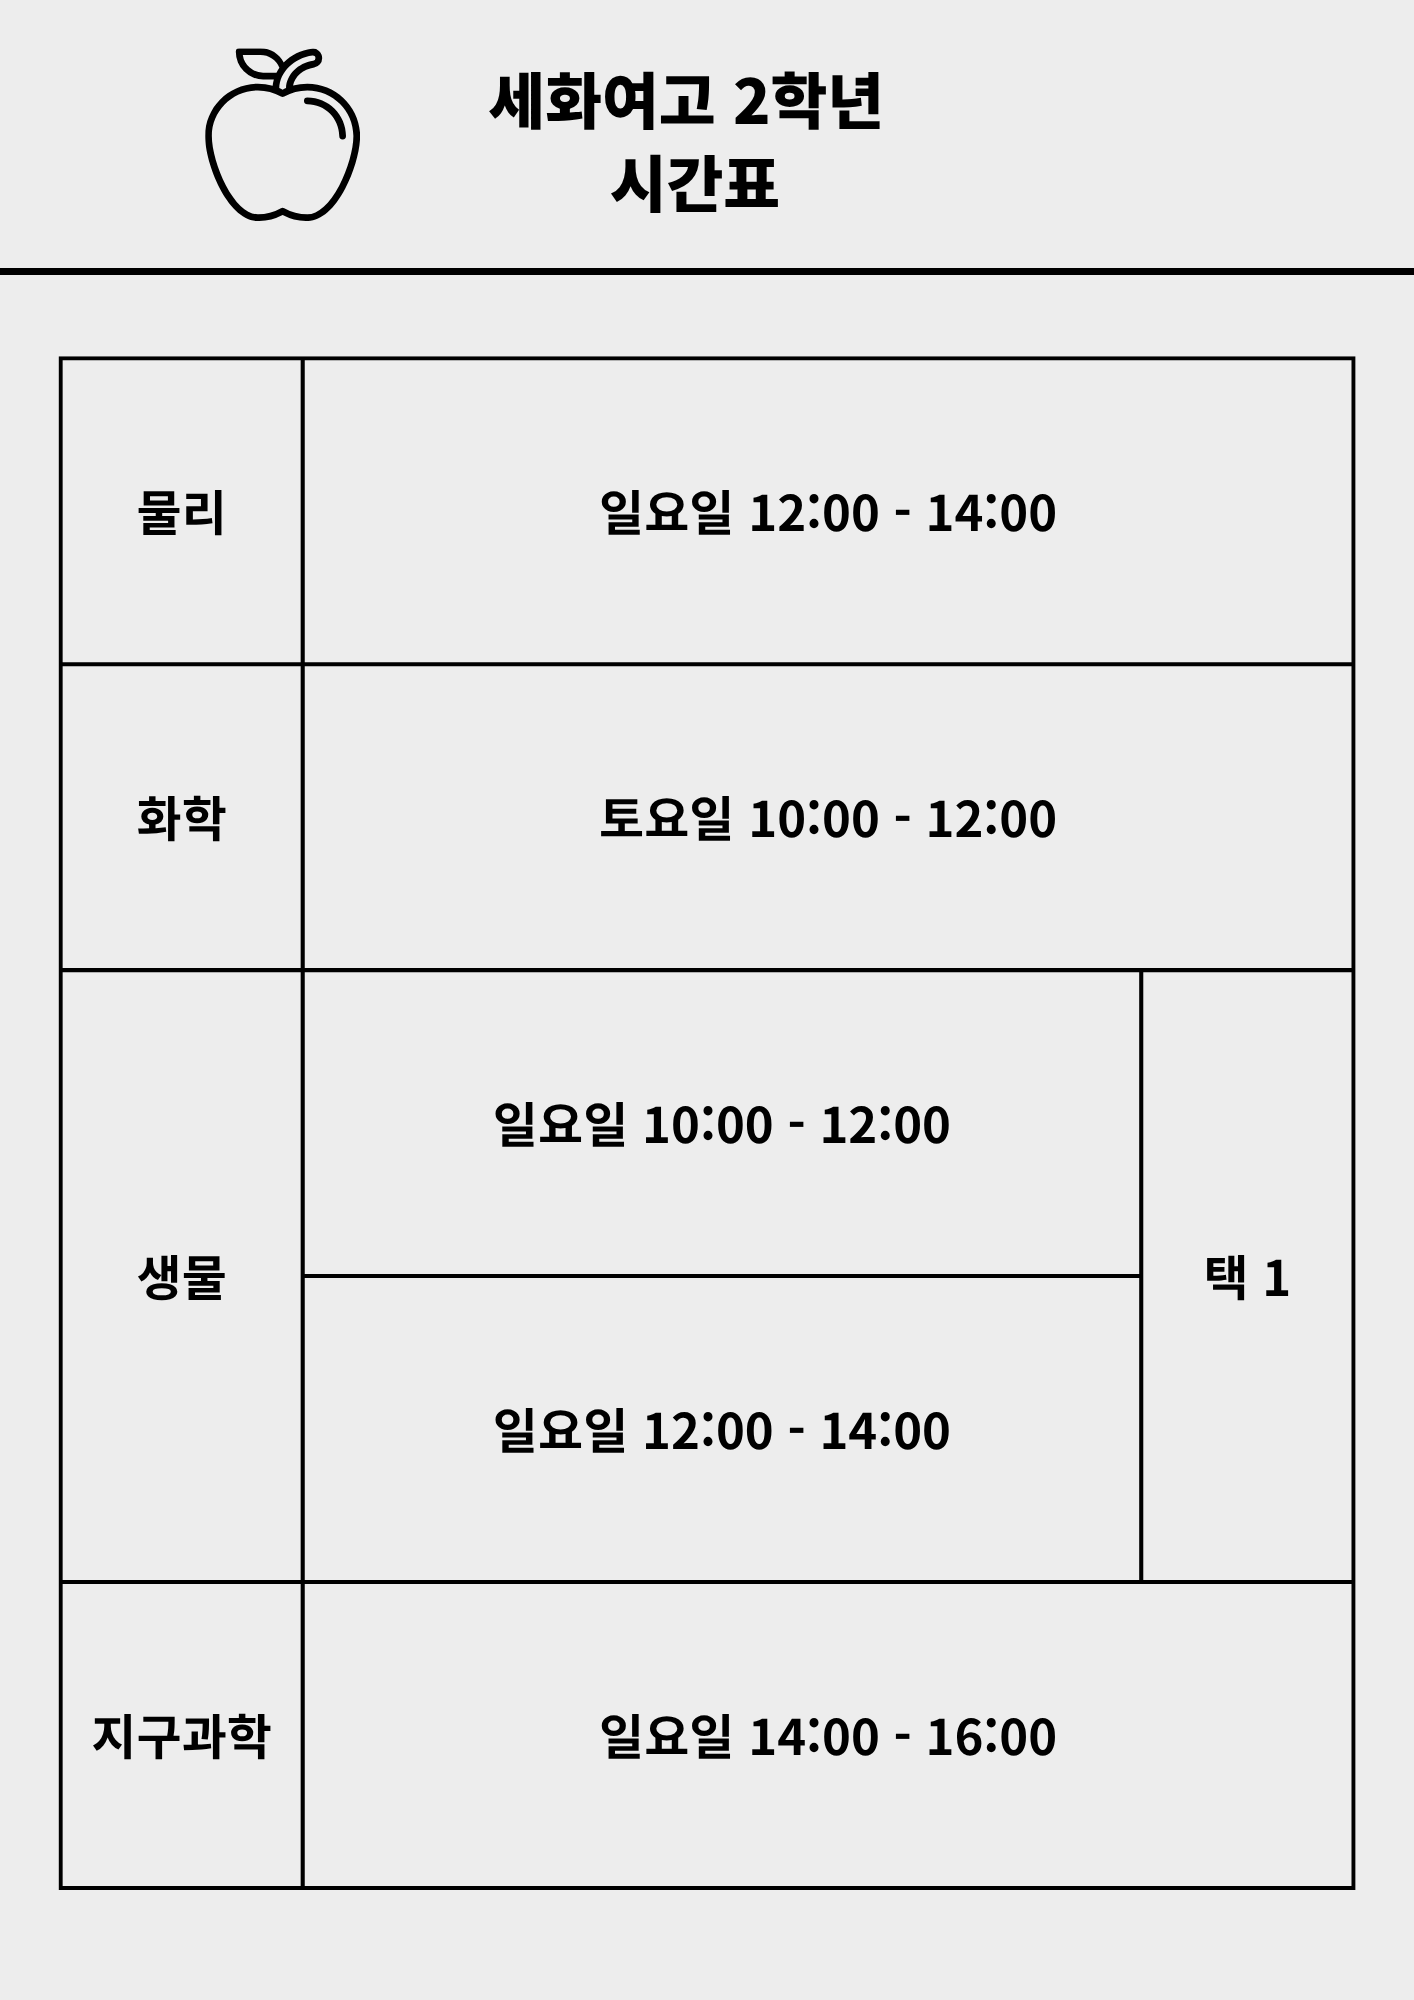
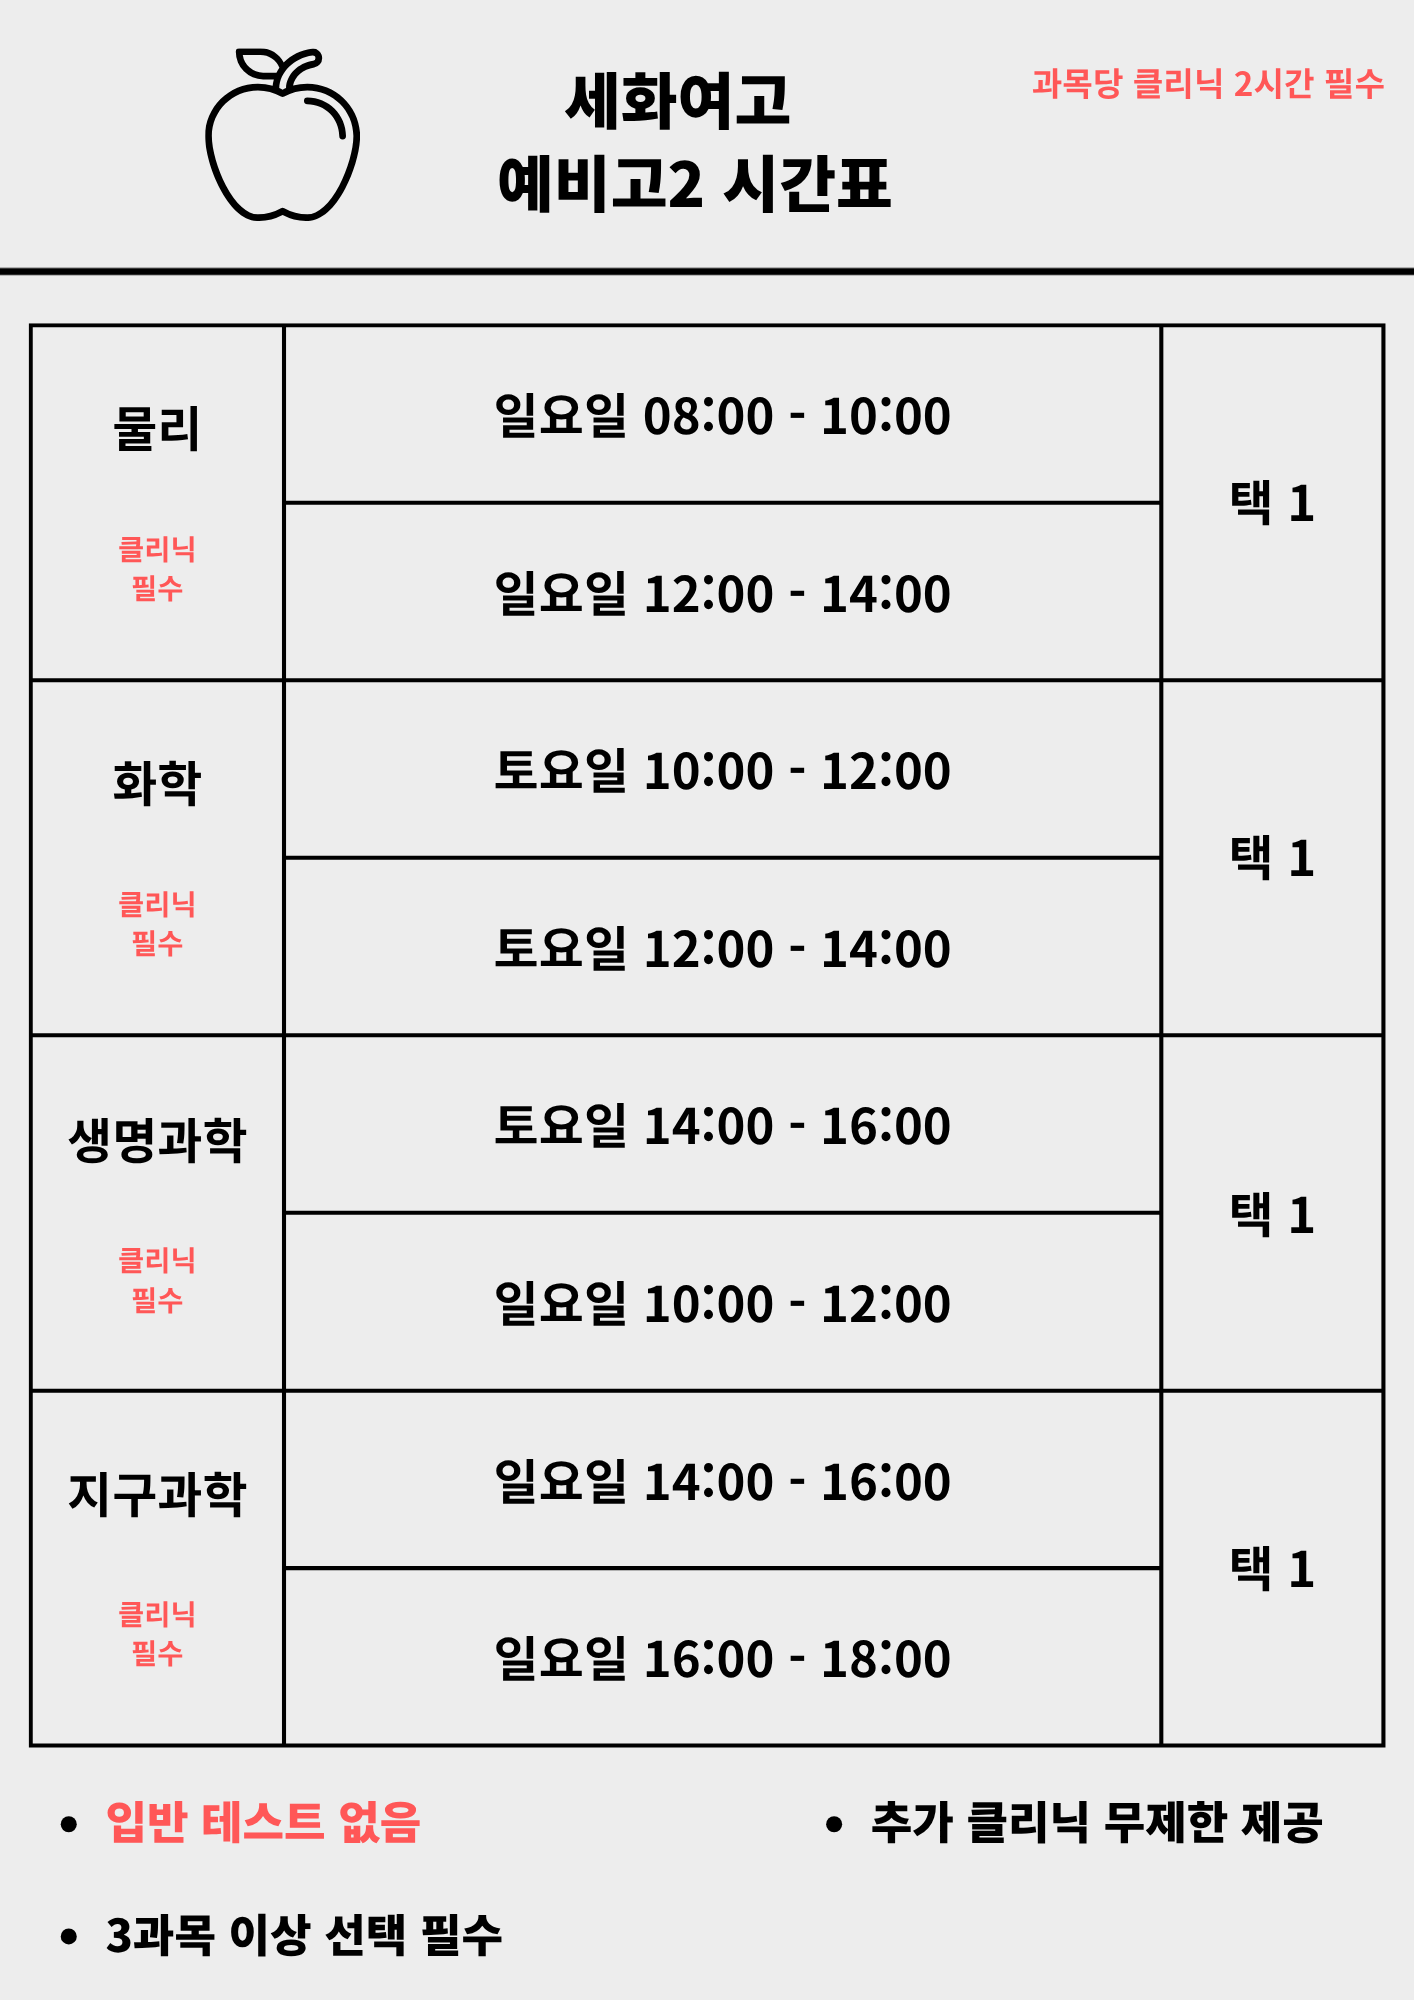
tt

diff --git a/appleWeb/templates/main/main_home.html b/appleWeb/templates/main/main_home.html
@@ -128,8 +128,8 @@
             <h2 class="t-n2 fw-bolder big-text">시간표</h2>
         </div>
         <div class="timetable-container">
-            <!-- <div class="timetable-box" data-bs-toggle="modal" data-bs-target="#timetableModal" data-timetable="예비고1">예비고1</div> -->
-            <div class="timetable-box" data-bs-toggle="modal" data-bs-target="#timetableModal" data-timetable="1학년">1학년</div>
+            <div class="timetable-box" data-bs-toggle="modal" data-bs-target="#timetableModal" data-timetable="예비고1">예비고1</div>
+            <!-- <div class="timetable-box" data-bs-toggle="modal" data-bs-target="#timetableModal" data-timetable="1학년">1학년</div> -->
             <div class="timetable-box" data-bs-toggle="modal" data-bs-target="#timetableModal" data-timetable="세화고2">세화고 2학년</div>
             <div class="timetable-box" data-bs-toggle="modal" data-bs-target="#timetableModal" data-timetable="세화여고2">세화여고 2학년</div>
         </div>

diff --git a/appleWeb/config/settings/prod.py b/appleWeb/config/settings/prod.py
@@ -1,0 +1,58 @@
+from .base import *
+import os
+
+STATIC_ROOT = BASE_DIR / "static/"
+STATICFILES_DIRS = []
+
+DEBUG = False
+
+env_file = BASE_DIR / ".env"
+if env_file.exists():
+    with open(env_file) as f:
+        for line in f:
+            if "=" in line and not line.startswith("#"):
+                key, value = line.strip().split("=", 1)
+                # 따옴표 제거
+                value = value.strip("\"'")
+                os.environ.setdefault(key, value)
+
+allowed_hosts_str = os.environ.get("ALLOWED_HOSTS")
+if not allowed_hosts_str:
+    raise ValueError(
+        "ALLOWED_HOSTS environment variable is required for security. "
+        "Set it to your domain names (e.g., 'example.com,www.example.com')"
+    )
+ALLOWED_HOSTS = [host.strip() for host in allowed_hosts_str.split(",") if host.strip()]
+
+# SESSION_COOKIE_AGE = 24000000000
+SESSION_COOKIE_SECURE = True
+CSRF_COOKIE_SECURE = True
+SESSION_EXPIRE_AT_BROWSER_CLOSE = True
+SESSION_SAVE_EVERY_REQUEST = True
+
+DATABASES = {
+    "default": {
+        "ENGINE": "django.db.backends.postgresql_psycopg2",
+        "NAME": os.environ.get("DB_NAME"),
+        "USER": os.environ.get("DB_USER"),
+        "PASSWORD": os.environ.get("DB_PASSWORD"),
+        "HOST": os.environ.get("DB_HOST"),
+        "PORT": "5432",
+    }
+}
+
+# 미디어 파일 설정
+MEDIA_URL = "/media/"
+MEDIA_ROOT = BASE_DIR / "media/"
+
+# CKEditor 업로드 경로
+CKEDITOR_UPLOAD_PATH = "uploads/"
+
+# SECRET_KEY: 환경변수 필수 (보안 강화)
+secret_key = os.environ.get("SECRET_KEY")
+if not secret_key:
+    raise ValueError(
+        "SECRET_KEY environment variable is required for security. "
+        "Generate a new secret key and set it in your .env file."
+    )
+SECRET_KEY = secret_key
